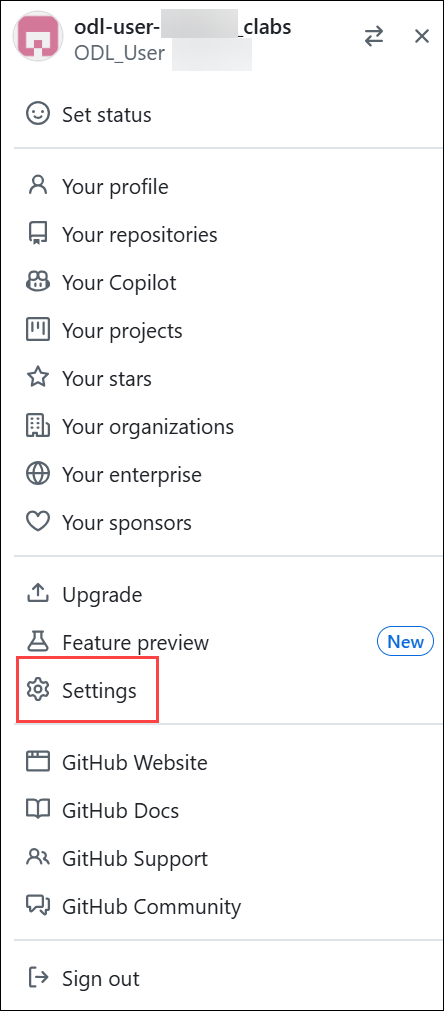
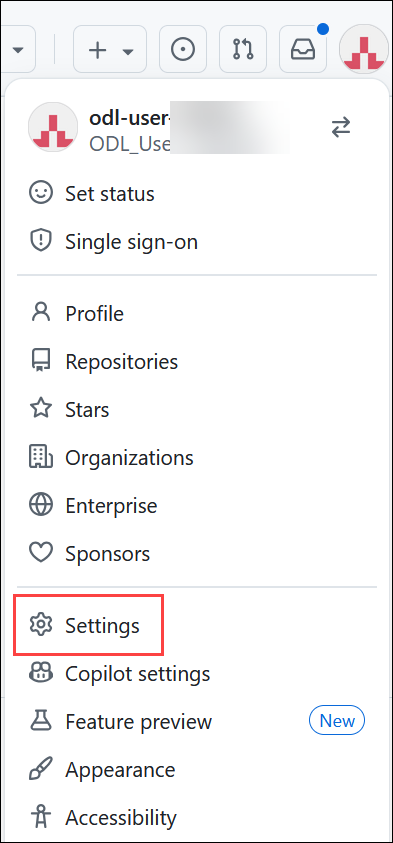
update

diff --git a/Labs/Lab-09.md b/Labs/Lab-09.md
@@ -61,9 +61,9 @@ Issue Resolution: MTTR can track the average time from when an issue is reported
 
 In this task, you will explore the GHAS security overview dashboard and reports to gain insights into your repository's security posture.
 
-1. Go to your **profile icon** in the top right corner, and then select **Your organizations**.
+1. Go to your **profile icon** in the top right corner, and then select **Organizations**.
 
-   ![Picture1](../images/org.png) 
+   ![Picture1](../images/T1S5.png) 
      
 1. Select **ghas-bootcamp-xxxx-xx-xx-<inject key="DeploymentID" enableCopy="false"/>** from **organizations**.
 
@@ -126,6 +126,10 @@ In this task, you will configure GitHub webhooks to send push event data to an A
 1. From the Create Function App tab, select **Consumption (1)** and click on **Select (2)**.
 
    ![Picture1](../images/ghas-exercise1-9a.png)
+
+   >**Note:** Click on **Confirm** during pop-up.
+
+   ![Picture1](../images/ghas-exercise1-9zt.png)
 
 1. On the **Basics** tab of Create Function App, provide details as mentioned in the table below and select **Review + create (8)** at the bottom of the page and subsequently click on **Create (9)**.
 

diff --git a/Labs/Lab-04.md b/Labs/Lab-04.md
@@ -36,7 +36,7 @@ The dependency review action is a GitHub Action designed for this purpose, preve
 
 1. In the  `fail-on-severity` in the workflow file and make sure you uncomment the line removing **# (1)** as shown in the below screenshot and click on **Commit changes.. (2)** in the top right corner.
 
-   >**Note**: Please ensure that the indentation is correct according to the provided screenshots. Make sure that the **fail-on-severity: low, moderate, high, critical** is directly below the **comment-summary-in-pr: always** line, as shown below:
+   >**Note**: Please ensure that the indentation is correct according to the provided screenshots. Make sure that the **fail-on-severity: moderate** is directly below the **comment-summary-in-pr: always** line, as shown below:
 
    >**Note:** The default value of **fail-on-severity** will work as well, but here we demonstrate how to modify your severity level.
 

diff --git a/Labs/Lab-02.md b/Labs/Lab-02.md
@@ -31,7 +31,7 @@ Applying the security configuration to all repositories in your organization
 
    ![Profile Menu](../images/T1S1.png)
 
-1. Select **Your organizations** from the dropdown menu.
+1. Select **Organizations** from the dropdown menu.
 
    ![Your Organizations](../images/T1S5.png)
 
@@ -55,7 +55,7 @@ Applying the security configuration to all repositories in your organization
 
    ![Code Security Configurations](../images/mod1org5new.png)
 
-1. In the **Secret scanning** section. You'll find that some options are enabled by default. It is recommended to leave these settings unchanged.
+1. In the **Secret scanning** section. You'll find that some options are enabled by default.
 
    ![Code Security Configurations](../images/mod1org6a-1.png)
 

diff --git a/Labs/Lab-06.md b/Labs/Lab-06.md
@@ -52,7 +52,7 @@ Secret scanning automatically scans your entire Git history on all branches pres
 
    ![Picture1](../images/token.png)  
 
-1. Go to your profile on top of the right hand, and then select **Your organizations**.
+1. Go to your profile on top of the right hand, and then select **Organizations**.
 
    ![Picture1](../images/T1S5.png) 
 
